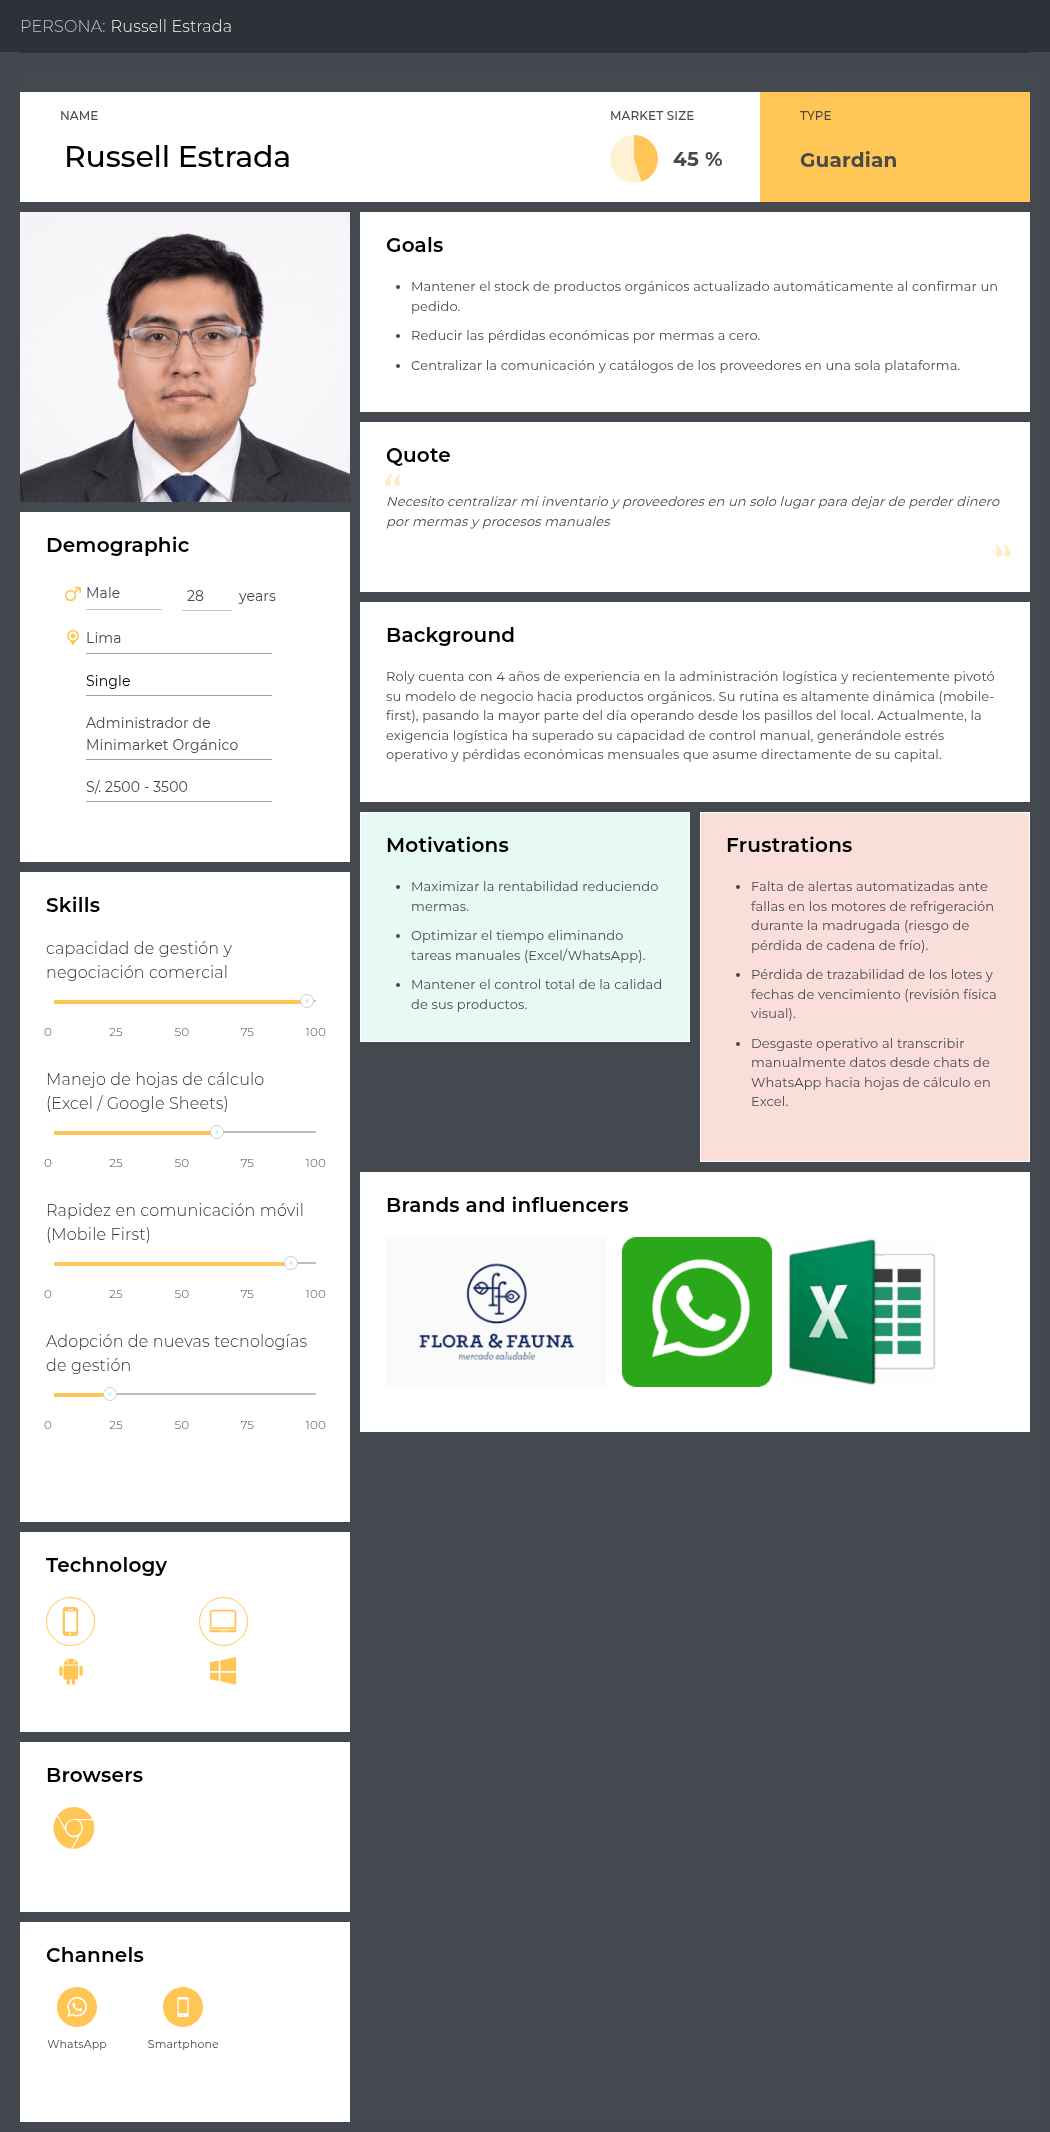
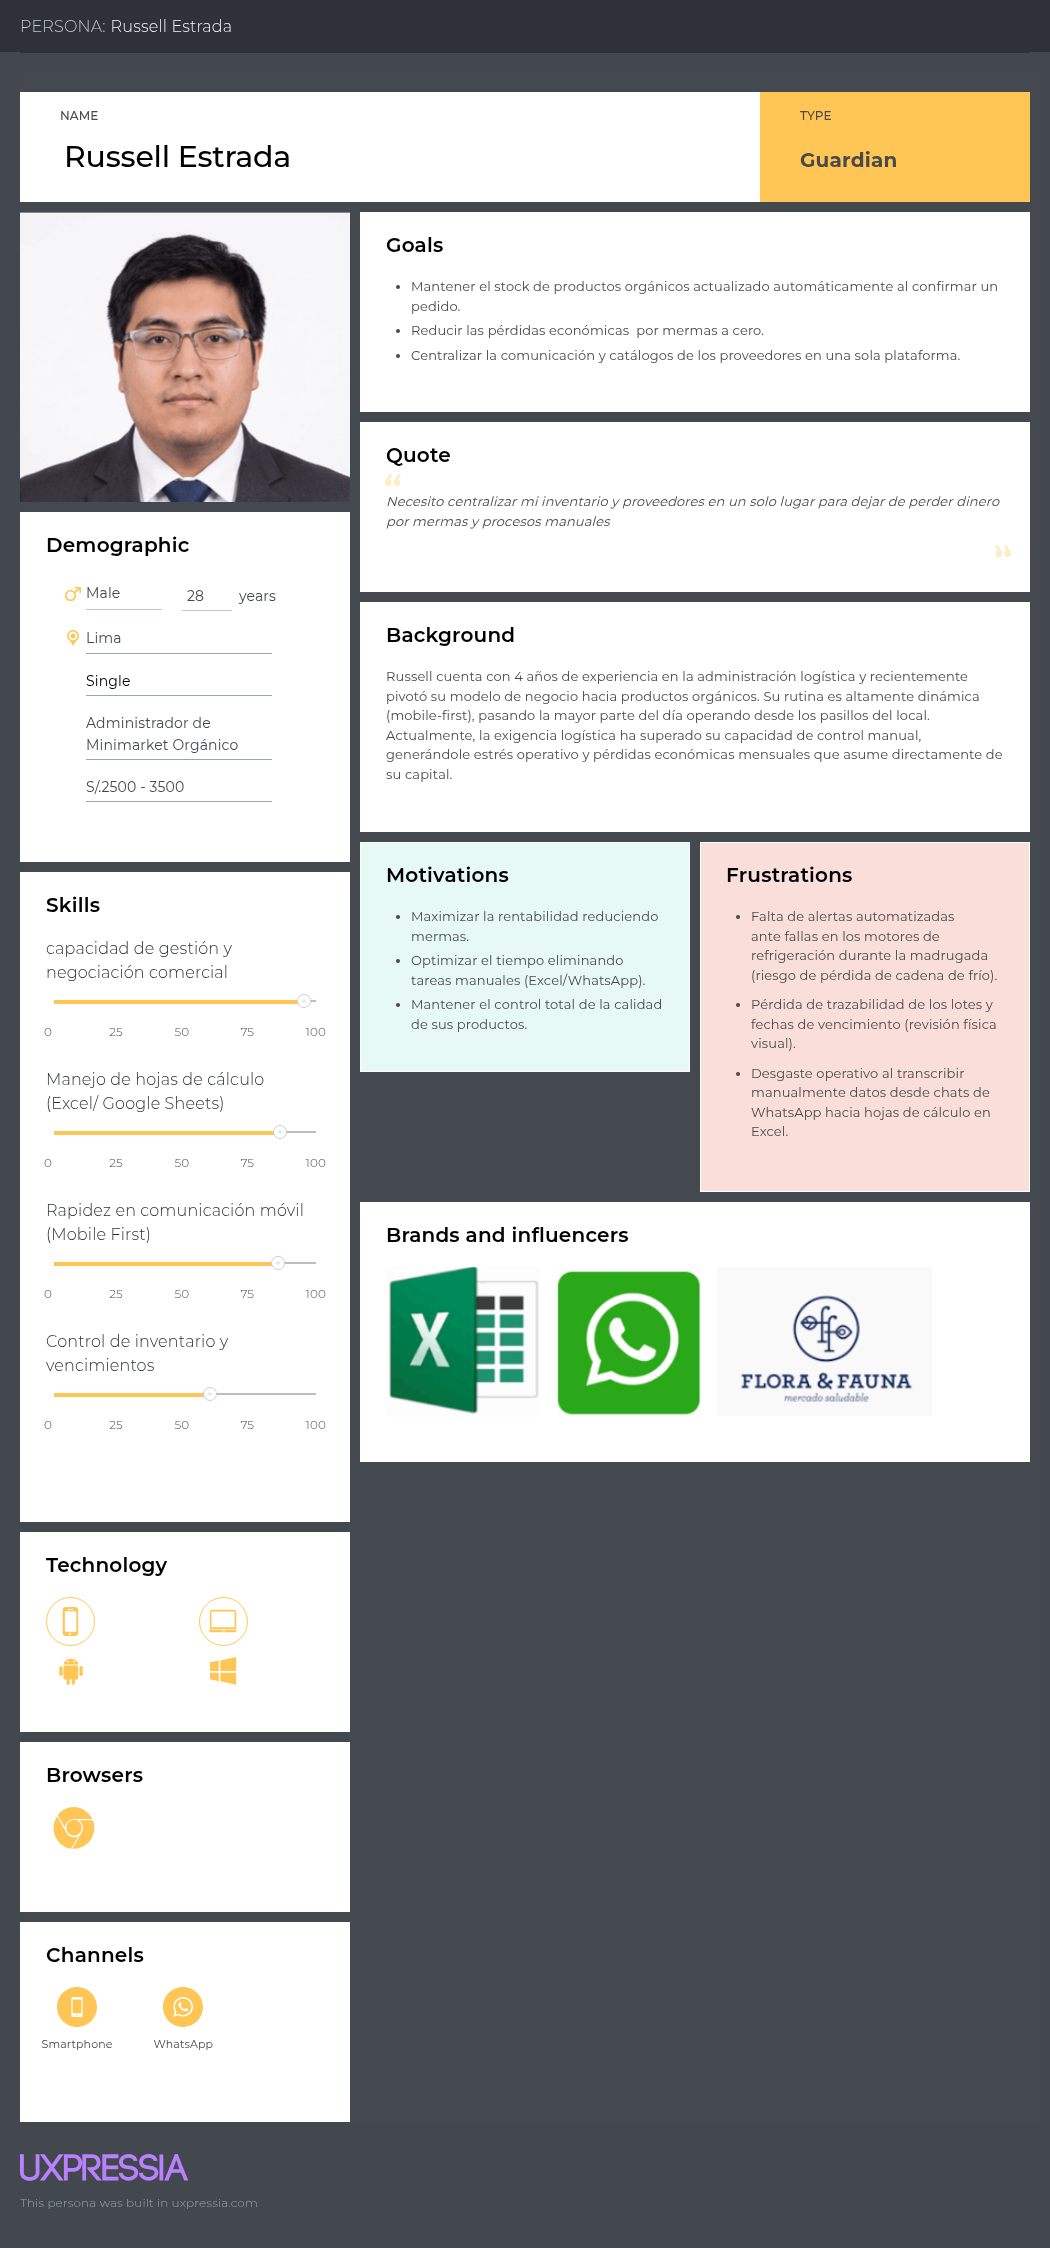
docs(chapter-02): make user personas archetypes and explain their sources

Changed region(s): [[0.0, 0.031, 1.0, 1.0]]

diff --git a/report/11-chapter-02.md b/report/11-chapter-02.md
@@ -681,15 +681,35 @@ El proveedor de productos orgánicos opera con herramientas digitales básicas y
 
 ## 2.3. Needfinding.
 
+En esta sección se presentan los artefactos resultantes del análisis de las entrevistas (2.2.3) y del análisis competitivo (2.1). Cada artefacto se construye sobre el anterior: los User Personas tipifican los rasgos más frecuentes de cada segmento; el User Task Matrix ordena sus tareas actuales; los User Journey Maps recorren su situación As-Is; y los Empathy Maps profundizan en lo que piensan, sienten y necesitan.
+
 ### 2.3.1. User Personas.
 
-**User Persona 1: Administrador operativo de minimarket orgánico**
+Se elaboró en UXPressia una ficha de User Persona por segmento objetivo. Cada Persona es un arquetipo ficticio: combina las características con mayor porcentaje del análisis de entrevistas y no representa a ningún entrevistado en particular. La siguiente tabla muestra de dónde proviene cada rasgo:
+
+| Rasgo de la ficha | Administrador: Russell Estrada | Proveedor: Enrique Villar |
+|:---|:---|:---|
+| Arquetipo (Type) | *Guardian*: protege la calidad de sus productos y el capital del negocio. | *El coordinador saturado*: atiende muchos clientes con información dispersa. |
+| Edad y ubicación | 28 años, Lima (rango de los entrevistados: 26 a 38 años). | 32 años, Lurín, Lima (rango de los entrevistados: 24 a 32 años). |
+| Dispositivos y navegador | Celular Android en el local y laptop Windows para cierres; Google Chrome (100% usa el celular en la jornada). | Celular Android en campo y laptop Windows en oficina; Google Chrome (100% combina celular y laptop; 67% declara Chrome). |
+| Herramientas actuales | Excel o Google Drive, sistema de ventas y libreta (100% usa hojas de cálculo). | Excel para catálogo y pedidos, y registros de almacén (100% usa Excel). |
+| Canales | WhatsApp con proveedores (100%). | WhatsApp y llamadas con los minimarkets (100%). |
+| Objetivos | Mantener el stock actualizado, reducir mermas y centralizar a sus proveedores. | Centralizar catálogo y pedidos, eliminar errores de transcripción y llamadas de confirmación. |
+| Frustraciones | Vencimientos y temperatura revisados a mano, mermas no detectadas a tiempo y transcripción desde chats (100%). | Pedidos en formatos distintos, productos comprometidos con dos clientes y llamadas de confirmación (100%). |
+| Diferencia frente a la competencia | Las soluciones revisadas en 2.1 no le avisan de riesgos de conservación. | Las soluciones revisadas en 2.1 no le permiten proponer pedidos que el minimarket apruebe. |
+
+**User Persona 1: Russell Estrada, administrador de minimarket orgánico**
 
 ![User Persona del administrador](assets/chapter-02/Russell-Estrada.png)
 
-**User Persona 2: Responsable comercial de proveedor de productos orgánicos**
+Russell representa al administrador que supervisa en persona el local y toma las decisiones de compra. Su principal meta es no perder dinero por mermas y mantener el inventario confiable sin dedicar horas a revisiones manuales.
 
-![User Persona del proveedor](assets/chapter-02/Marco-User.png)
+**User Persona 2: Enrique Villar, coordinador comercial de proveedor de productos orgánicos**
+
+![User Persona del proveedor](assets/chapter-02/enrique-villar.png)
+
+Enrique representa al proveedor que atiende a varios minimarkets desde el celular y la laptop. Su principal meta es que los pedidos lleguen ordenados y que sus clientes consulten disponibilidad y estado sin llamarlo.
+
 
 ### 2.3.2. User Task Matrix.
 
